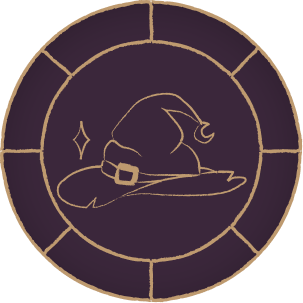
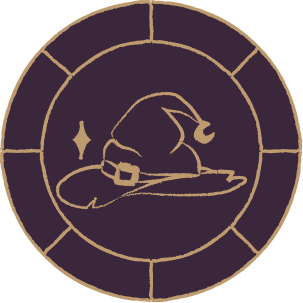
Add Sanctum route, router, grimoire UI & assets
Introduce client-side routing and a new Sanctum page: add react-router-dom to package.json and wire BrowserRouter/Routes in main.tsx. Update Login to use useNavigate and pass the current user state to /sanctum. Add a dedicated Sanctum page implementing a two-panel slider (bookshelf and main app), logout/delete-account flows, and integration with the Grimoire component. Update Grimoire markup to fix class names and backdrop behavior. Add related CSS for the grimoire backdrop, sanctum slider/pan, and interactive elements. Include new image assets and badge images used by the UI.

diff --git a/Witch-Project/src/pages/Sanctum.tsx b/Witch-Project/src/pages/Sanctum.tsx
@@ -1,0 +1,133 @@
+import React, {useState} from "react";
+import { useLocation, useNavigate } from "react-router-dom";
+import { Container, Row, Col } from "react-bootstrap";
+import '../App.css';
+import Grimoire from "../componenets/Grimoire";
+import MainApp from "../App";
+import Window from "../assets/stainWindow.png";
+import GrimoireHolder from "../assets/grimoireHolder.png";
+
+export default function Sanctum() {
+    const location = useLocation();
+    const navigate = useNavigate();
+
+    //unpaack data sent from loigin >:D
+    const currentWitch = location.state?.witch;
+    const [isGrimoireOpen, setIsGrimoireOpen] = useState(false);    
+
+    const [lookingAtApp, setIsLookingAtApp] = useState(false);
+
+
+    if (!currentWitch){
+        navigate("/login")
+        return null; //if we don't have a witch, banich them back to the login page and render nothing
+    }
+
+      //LOGOUT SPELL
+  const handleLogout = () => {
+    localStorage.removeItem("witch_temp_token");
+    alert("Logged out safely. The shadows consume your presence")
+    navigate("/login");
+  }
+
+
+  //THE SPELL OF BANISHMENT (DELETE ACCOUNT FROM DATABASE)
+  const handleDeleteAccount = async () => {
+    if (!currentWitch?.id) return;
+
+    const doubleCheak = window.confirm("Are you sure you wish to be banished from the coven? This spellconnot be undone!");
+    if (!doubleCheak) return;
+
+    try {
+      //HITS BACKEND ROUTER.DELETE("/:id") ENPOINT
+      const response = await fetch(`http://localhost:5001/api/${currentWitch.id}`, {
+        method: "DELETE"
+      });
+
+      if (!response.ok) throw new Error("Banishment failed. Your soul stays here.");
+
+      alert("Account permanantly deleted");
+      handleLogout();
+
+    } catch (err: any) {
+      alert(err.message);
+
+    }
+  };
+
+  return (
+    <>
+    <div className="sanctum-wallpaper-wrapper">
+        <div className={`sanctum-slider ${lookingAtApp ? "slide-to-app" : ""}`}>
+        <div className="sanctum-section">
+
+    <div className="dashboard-sanctum">
+        <h2>Welocome to the Inner Sanctum, {currentWitch.username}!</h2>
+        <p>PP: {currentWitch.pp} | WP: {currentWitch.wp}</p>
+
+        <Container fluid className="sanctum-container">
+        {/* THIS IS FOR THE AUTHENTICATION TRANSITION */}
+
+
+        <Row>
+
+          <Col md={4}>
+            <img src={Window} alt="bat window" className="bat-window" />
+          </Col>
+
+          {/* MAIN ALTER LOGIN/REGISTRATION COL */}
+          <Col md={4}>
+        {/* bookshelf and grimoire */}
+        <button className="open-grimoire-btn" onClick={() => setIsGrimoireOpen(true)}>
+            <img src={GrimoireHolder} alt="grimoire holder" className="grimoire-holder" />
+        </button>
+
+        <button onClick={() => setIsLookingAtApp(true)} className="submit-ritual-btn">
+            Turn to the Couldrom
+        </button>
+
+<button onClick={handleLogout} className="submit-ritual-btn">
+    Leave Coven
+</button>
+
+<button onClick={handleDeleteAccount} className="submit-ritual-btn delete-account-btn">
+    Banish Self from Coven
+</button>
+
+        <Grimoire
+            isOpen={isGrimoireOpen}
+            onClose={() => setIsGrimoireOpen(false)}
+            achievements={currentWitch.achievements}
+            />
+
+          </Col>
+
+          <Col md={4}>
+            <img src={Window} alt="bat window" className="bat-window" />
+          </Col>
+        </Row>
+      </Container>
+
+
+
+        </div>
+        </div>
+
+        {/* MAINAPP THINGY THING */}
+
+        <div className="sanctum-section">
+            <button
+            onClick={() => setIsLookingAtApp(false)}
+            >
+                Look back at the bookshelf
+            </button>
+
+            <div className="main-app-container-wrapper">
+                <MainApp />
+            </div>
+        </div>
+        </div>
+        </div>
+        </>
+  )
+}

diff --git a/Witch-Project/src/App.css b/Witch-Project/src/App.css
@@ -942,8 +942,24 @@ transition: none;
 /* GRIMOIRE BOOK KEEPER BADGES */
 /* =============================== */
 
+.grimoire-backdrop{
+  position: fixed;
+  top: 0;
+  left: 0;
+  width: 100vw;
+  height: 100vh;
+
+  display: flex;
+  justify-content: center;
+  align-items: center;
+
+  background-color: rgba(0, 0, 0, 0.3);
+  backdrop-filter: blur(8px);
+  z-index: 2000;
+  -webkit-backdrop-filter: blur(8px);  /*for safari people*/
+}
 /* Layout structure for the open book content */
-.grimoire-book-container {
+.grimoire-container {
   position: relative;
   width: 750px;
   height: 550px;
@@ -1052,6 +1068,61 @@ transition: none;
 .shaking-basket{
   cursor: pointer;
   animation: basketWiggle 2.5s infinite ease-in-out;
+}
+
+/* 1. The Room Background (Never moves, hides the overflow) */
+.sanctum-wallpaper-wrapper {
+  width: 100vw;
+  height: 100vh;
+  overflow-x: hidden; /* Hides the other half of the room! */
+
+  background-size: cover;
+  background-position: center;
+}
+
+/* 2. The Slider Track (200% width, side-by-side) */
+.sanctum-slider {
+  display: flex;
+  width: 200vw; /* Twice the width of the screen! */
+  height: 100vh;
+  transition: transform 0.8s cubic-bezier(0.65, 0, 0.35, 1); /* Smooth pan effect */
+}
+
+/* 3. The Camera Pan Action! */
+.slide-to-app {
+  transform: translateX(-100vw); /* Slides the whole track to the left */
+}
+
+.sanctum-container{
+  flex-direction: row;
+  display: flex;
+
+}
+/* 4. The Individual Room Sections (Dashboard vs App) */
+.sanctum-section {
+  width: 100vw;
+  height: 100vh;
+  display: flex;
+  flex-direction: column;
+  align-items: center;
+  padding: 50px;
+  /* Add a subtle dark overlay if you want the wallpaper to be less bright */
+  background: rgba(20, 15, 25, 0.4); 
+}
+
+.open-grimoire-btn{
+  background: transparent;
+  border: none;
+  cursor: pointer;
+}
+/* Make image act like a button */
+.clickable-image {
+  cursor: pointer;
+  transition: transform 0.2s ease;
+}
+.clickable-image:hover {
+  transform: scale(1.05);
+  filter: drop-shadow(0 0 10px rgba(153, 110, 141, 0.8));
 }
 
 @keyframes basketWiggle{

diff --git a/Witch-Project/src/pages/Login.tsx b/Witch-Project/src/pages/Login.tsx
@@ -2,6 +2,7 @@ import React, { useState } from "react";
 // import 'bootstrap/dist/css/bootstrap.min.css';
 import '../App.css';
 import { Container, Row, Col } from "react-bootstrap";
+import { useNavigate } from "react-router-dom";
 
 import AuthClock from "../componenets/AuthenticationClock"
 import TrophyRoom from "../componenets/Grimoire";
@@ -12,6 +13,7 @@ import Window from "../assets/stainWindow.png";
 
 export default function Login() {
 
+  const navigate = useNavigate(); //magical compuss
   const [username, setUsername] = useState("");
   const [password, setPassword] = useState("");
   const [errorMessage, setErrorMessage] = useState("");
@@ -80,6 +82,7 @@ export default function Login() {
 
     //redirect user to the dashbpord room
     //window.location.href = "/dashboard"
+  
 
     //ACHIEVENMT BADGED AWARDED RIGHT BEFORE UPDATING THE STATE >:D
     if (wasRegistrationSuccessful) {
@@ -88,41 +91,10 @@ export default function Login() {
       localStorage.setItem("witching-just-logged-in", "true");
     }
 
-  };
-
-  //LOGOUT SPELL
-  const handleLogout = () => {
-    localStorage.removeItem("witch_temp_token");
-    setCurrentWitch(null);
-    setAuthStage('form');
-    setUsername("");
-    setPassword("");
-    setWasRegistrationSuccessful(false); //reset session flags
-    setSuccessMessage("Logged out safely. The shadows consume your presence")
-  }
-
-  //THE SPELL OF BANISHMENT (DELETE ACCOUNT FROM DATABASE)
-  const handleDeleteAccount = async () => {
-    if (!currentWitch?.id) return;
-
-    const doubleCheak = window.confirm("Are you sure you wish to be banished from the coven? This spellconnot be undone!");
-    if (!doubleCheak) return;
-
-    try {
-      //HITS BACKEND ROUTER.DELETE("/:id") ENPOINT
-      const response = await fetch(`http://localhost:5001/api/${currentWitch.id}`, {
-        method: "DELETE"
-      });
-
-      if (!response.ok) throw new Error("Banishment failed. Your soul stays here.");
-
-      alert("💀 Account permanantly deleted");
-      handleLogout();
-
-    } catch (err: any) {
-      setErrorMessage(err.message);
-
-    }
+    //TELEPORTATION SPELL!
+    //carriirs the witches stats in the state backpack to the sanctum
+    //add a button to the grimoire to flip pages to user details
+    navigate('/sanctum', {state: {witch: currentWitch} });
   };
 
   return (

diff --git a/Witch-Project/src/main.tsx b/Witch-Project/src/main.tsx
@@ -1,10 +1,20 @@
+import React from 'react';
+import ReactDOM from 'react-dom/client';
+import { BrowserRouter, Routes, Route } from 'react-router-dom';
 import { StrictMode } from 'react'
 import { createRoot } from 'react-dom/client'
 import './index.css'
-import App from './pages/Login.tsx'
+import Login from './pages/Login';
+import Sanctum from './pages/Sanctum';
+
 
 createRoot(document.getElementById('root')!).render(
   <StrictMode>
-    <App />
+    <BrowserRouter>
+    <Routes>
+      <Route path="/login" element={<Login />} />
+      <Route path="/sanctum" element={<Sanctum />} />
+      </Routes>
+      </BrowserRouter>
   </StrictMode>,
 )

diff --git a/Witch-Project/src/componenets/Grimoire.tsx b/Witch-Project/src/componenets/Grimoire.tsx
@@ -28,9 +28,9 @@ export default function Grimoire({ isOpen, onClose, achievements = [] }: Grimoir
     //maybe make this a tab tin the little bat menu that says badges and then anouther that says questlog >:D
     return (
         <>
-            <div className="wellness-backdrop" onClick={onClose}>
+            <div className="grimoire-backdrop" onClick={onClose}>
 
-                <div className="grimore-container" onClick={(e) => e.stopPropagation()}> {/* THE MEANS STOP THE CLICK FROM BUBBLING OUT*/}
+                <div className="grimoire-container" onClick={(e) => e.stopPropagation()}> {/* THE MEANS STOP THE CLICK FROM BUBBLING OUT*/}
 
                     <div className="grimoire-content">
                         <h1>🏆 Your Grimoire achievements</h1>
@@ -45,8 +45,9 @@ export default function Grimoire({ isOpen, onClose, achievements = [] }: Grimoir
                                         //for every badge in my list, clone the bootsrap col and fill it with the badge's details: tyile, dateEarned aaaand ofc the badgeIcon
                                         <div key={index}
                                             className="grimoire-badge-wrapper"
-                                            onClick={() => setSelectedBadge(badge)} {/* //when we click on a badge, set it as the selected badge to show details */}
-                                            style={{ animationDelay: `${index * 150}ms` }} {/*FADES ION ONE BY ONE >:D*/}
+                                            onClick={() => setSelectedBadge(badge)}
+                                             
+                                            style={{ animationDelay: `${index * 150}ms` }} 
                                         >
                                             {/* INDIVIDUAL BADGES */}
 